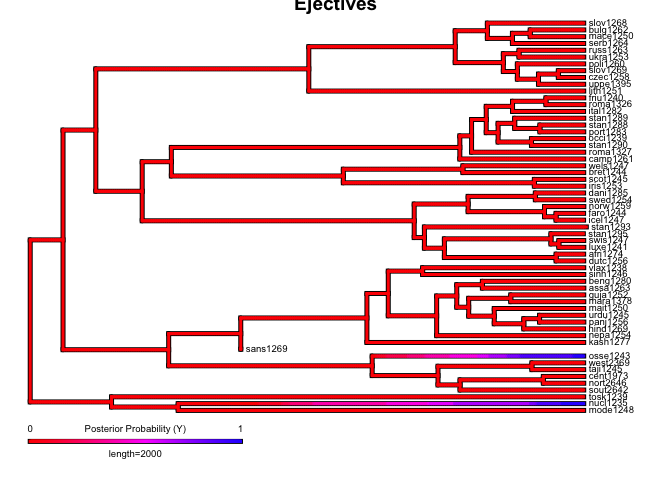
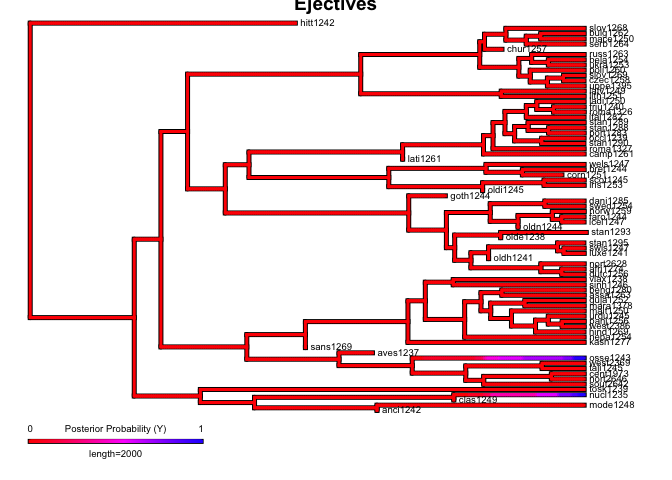
add analysis with haralds additional data

Changed region(s): [[0.0312, 0.0312, 0.9375, 0.9688]]

diff --git a/phylogenetic_study/phylogenetic_study_plots-harald.md b/phylogenetic_study/phylogenetic_study_plots-harald.md
@@ -57,7 +57,7 @@ library(phytools)
 library(phylotools)
 source('lib/functions.R')
 
-load("trees/traits.Rdata")
+load("../Harald/traits-harald.Rdata")
 ```
 
 Plot function.
@@ -95,14 +95,14 @@ The phylogeny comes from:
 Here are the traits plotted on the pruned phylogeny.
 
 ``` r
-load('trees/ie-c-trees.Rdata')
+load('trees/harald-ie-c-trees.Rdata')
 traits.print <- pr_sum_tree$data %>% select(-taxa)
 p <- reverse.time(ggtree(pr_sum_tree$tree, ladderize=T, right=T)) +
   geom_tiplab(align=T, linesize = .1, size = 1.5) 
 plot.tree(p, traits.print)
 ```
 
-![](phylogenetic_study_plots_files/figure-gfm/unnamed-chunk-3-1.png)<!-- -->
+![](phylogenetic_study_plots-Harald_files/figure-gfm/unnamed-chunk-3-1.png)<!-- -->
 
 With this data, the IE pruned tree has this many data points:
 
@@ -110,7 +110,7 @@ With this data, the IE pruned tree has this many data points:
 nrow(pr_sum_tree$data)
 ```
 
-    ## [1] 58
+    ## [1] 75
 
 Here are the stochastic character maps.
 
@@ -130,13 +130,13 @@ treemaps <- make.simmap(pr_sum_tree$tree, data, model="ARD", nsim=10, Q="empiric
     ## Using pi estimated from the stationary distribution of Q assuming a flat prior.
     ## pi =
     ##        N        Y 
-    ## 0.939401 0.060599 
+    ## 0.959913 0.040087 
     ## 
     ## make.simmap is sampling character histories conditioned on the transition matrix
     ## 
     ## Q =
     ##               N            Y
-    ## N -2.431031e-05 2.431031e-05
+    ## N -2.174259e-05 2.174259e-05
     ## Y  0.000000e+00 0.000000e+00
     ## (estimated using likelihood);
     ## and (mean) root node prior probabilities
@@ -161,7 +161,7 @@ p <- plot(map, outline=T, lwd=c(3,3),
 title(main="Ejectives")
 ```
 
-![](phylogenetic_study_plots_files/figure-gfm/unnamed-chunk-5-1.png)<!-- -->
+![](phylogenetic_study_plots-Harald_files/figure-gfm/unnamed-chunk-5-1.png)<!-- -->
 
 ``` r
 p
@@ -185,19 +185,19 @@ treemaps <- make.simmap(pr_sum_tree$tree, data, model="ARD", nsim=10, Q="empiric
     ## Using pi estimated from the stationary distribution of Q assuming a flat prior.
     ## pi =
     ##        N        Y 
-    ## 0.775862 0.224138 
+    ## 0.840553 0.159447 
     ## 
     ## make.simmap is sampling character histories conditioned on the transition matrix
     ## 
     ## Q =
-    ##             N           Y
-    ## N -0.03393642  0.03393642
-    ## Y  0.11747149 -0.11747149
+    ##               N             Y
+    ## N -0.0009776741  0.0009776741
+    ## Y  0.0051540119 -0.0051540119
     ## (estimated using likelihood);
     ## and (mean) root node prior probabilities
     ## pi =
-    ##        N        Y 
-    ## 0.775861 0.224139
+    ##         N         Y 
+    ## 0.8405538 0.1594462
 
     ## Done.
 
@@ -216,7 +216,7 @@ p <- plot(map, outline=T, lwd=c(3,3),
 title(main="Uvulars")
 ```
 
-![](phylogenetic_study_plots_files/figure-gfm/unnamed-chunk-6-1.png)<!-- -->
+![](phylogenetic_study_plots-Harald_files/figure-gfm/unnamed-chunk-6-1.png)<!-- -->
 
 ``` r
 p
@@ -235,14 +235,14 @@ Phylogeny comes from:
 Here are the traits plotted on the pruned phylogeny.
 
 ``` r
-load('trees/sinotibetan-z-trees.Rdata')
+load('trees/harald-sinotibetan-z-trees.Rdata')
 traits.print <- pr_sum_tree$data %>% select(-taxa)
 p <- reverse.time(ggtree(pr_sum_tree$tree, ladderize=T, right=T)) +
   geom_tiplab(align=T, linesize = .1, size = 1.5) 
 plot.tree(p, traits.print)
 ```
 
-![](phylogenetic_study_plots_files/figure-gfm/unnamed-chunk-7-1.png)<!-- -->
+![](phylogenetic_study_plots-Harald_files/figure-gfm/unnamed-chunk-7-1.png)<!-- -->
 
 With this data, the ST pruned tree has this many data points:
 
@@ -250,7 +250,7 @@ With this data, the ST pruned tree has this many data points:
 nrow(pr_sum_tree$data)
 ```
 
-    ## [1] 39
+    ## [1] 72
 
 ``` r
 data <- pr_sum_tree$tree[["tip.label"]]
@@ -266,19 +266,19 @@ treemaps <- make.simmap(pr_sum_tree$tree, data, model="ARD", nsim=10, Q="empiric
     ## Using pi estimated from the stationary distribution of Q assuming a flat prior.
     ## pi =
     ##        N        Y 
-    ## 0.974359 0.025641 
+    ## 0.986109 0.013891 
     ## 
     ## make.simmap is sampling character histories conditioned on the transition matrix
     ## 
     ## Q =
     ##               N             Y
-    ## N -0.0002283211  0.0002283211
-    ## Y  0.0086761129 -0.0086761129
+    ## N -8.166243e-05  8.166243e-05
+    ## Y  5.797295e-03 -5.797295e-03
     ## (estimated using likelihood);
     ## and (mean) root node prior probabilities
     ## pi =
     ##          N          Y 
-    ## 0.97435872 0.02564128
+    ## 0.98610937 0.01389063
 
     ## Done.
 
@@ -297,7 +297,7 @@ p <- plot(map, outline=T, lwd=c(3,3),
 title(main="Ejectives")
 ```
 
-![](phylogenetic_study_plots_files/figure-gfm/unnamed-chunk-9-1.png)<!-- -->
+![](phylogenetic_study_plots-Harald_files/figure-gfm/unnamed-chunk-9-1.png)<!-- -->
 
 ``` r
 p
@@ -321,19 +321,19 @@ treemaps <- make.simmap(pr_sum_tree$tree, data, model="ARD", nsim=10, Q="empiric
     ## Using pi estimated from the stationary distribution of Q assuming a flat prior.
     ## pi =
     ##        N        Y 
-    ## 0.820186 0.179814 
+    ## 0.831917 0.168083 
     ## 
     ## make.simmap is sampling character histories conditioned on the transition matrix
     ## 
     ## Q =
     ##               N             Y
-    ## N -6.600788e-05  6.600788e-05
-    ## Y  2.318698e-04 -2.318698e-04
+    ## N -3.795521e-05  3.795521e-05
+    ## Y  1.803341e-04 -1.803341e-04
     ## (estimated using likelihood);
     ## and (mean) root node prior probabilities
     ## pi =
     ##         N         Y 
-    ## 0.7784061 0.2215939
+    ## 0.8261243 0.1738757
 
     ## Done.
 
@@ -352,7 +352,7 @@ p <- plot(map, outline=T, lwd=c(3,3),
 title(main="Uvulars")
 ```
 
-![](phylogenetic_study_plots_files/figure-gfm/unnamed-chunk-10-1.png)<!-- -->
+![](phylogenetic_study_plots-Harald_files/figure-gfm/unnamed-chunk-10-1.png)<!-- -->
 
 ``` r
 p

diff --git a/phylogenetic_study/phylogenetic_study_prune.md b/phylogenetic_study/phylogenetic_study_prune.md
@@ -1,0 +1,89 @@
+Phylogenetic study of ejectives and uvulars (presense / absence) in IE
+and ST
+================
+Steven Moran
+29 June, 2020
+
+# Prune the phylogenies
+
+Prune the language phylogeneies with the daughter languages that we have
+in the traits data. This only needs to be run once.
+
+## Indo-European
+
+``` r
+# Tree paths
+tree <- 'trees/indoeuropean-C-merged.nex'
+forest <- 'trees/indoeuropean-C-20k.nex'
+
+# Prune the trees
+pr_sum_tree <- PruneSummaryTree(tree, traits$taxa, 'Glottocode')
+pr_trees <- PruneForest(forest, traits$taxa, 'Glottocode')
+
+# Check that the summary tree tip labels are the same as (the first) posterior tree tip labels
+expect_true(setequal(pr_sum_tree$tip.label, pr_trees$STATE_0$tip.label))
+
+# Prune the traits data to match the tree tips for analysis
+data <- PruneTraits(traits, pr_sum_tree$tip.label)
+
+# Combine them into a list of R data objects for analysis with the BT3 wrapper
+pr_sum_tree <- list(data=data, tree=pr_sum_tree)
+pr_trees <- list(data=data, tree=pr_trees)
+# save(pr_sum_tree, pr_trees, file='trees/ie-c-trees.Rdata')
+save(pr_sum_tree, pr_trees, file='trees/harald-ie-c-trees.Rdata')
+```
+
+## Sinotibetan (Zhang)
+
+``` r
+# Tree paths
+tree <- 'trees/sinotibetan-zhang-merged.nex'
+forest <- 'trees/sinotibetan-zhang-10k.nex'
+
+# Prune the trees
+pr_sum_tree <- PruneSummaryTree(tree, traits$taxa, 'Glottocode')
+pr_trees <- PruneForest(forest, traits$taxa, 'Glottocode')
+
+# Check that the summary tree tip labels are the same as (the first) posterior tree tip labels
+expect_true(setequal(pr_sum_tree$tip.label, pr_trees$STATE_0$tip.label))
+
+# Prune the traits data to match the tree tips for analysis
+data <- PruneTraits(traits, pr_sum_tree$tip.label)
+
+# Combine them into a list of R data objects for analysis with the BT3 wrapper
+pr_sum_tree <- list(data=data, tree=pr_sum_tree)
+pr_trees <- list(data=data, tree=pr_trees)
+# save(pr_sum_tree, pr_trees, file='trees/sinotibetan-z-trees.Rdata')
+save(pr_sum_tree, pr_trees, file='trees/harald-sinotibetan-z-trees.Rdata')
+```
+
+## Utoaztecan
+
+TODO: something about this tree doesn’t work (not dated?).
+
+``` r
+# Tree paths
+# tree <- 'trees/utoaztecan-merged.nex'
+# forest <- 'trees/utoaztecan-800.nex'
+
+# Prune the trees
+# pr_sum_tree <- PruneSummaryTree(tree, traits$taxa, 'Glottocode')
+# pr_trees <- PruneForest(forest, traits$taxa, 'Glottocode')
+
+# Check that the summary tree tip labels are the same as (the first) posterior tree tip labels
+# expect_true(setequal(pr_sum_tree$tip.label, pr_trees$STATE_0$tip.label))
+
+# Prune the traits data to match the tree tips for analysis
+# data <- PruneTraits(traits, pr_sum_tree$tip.label)
+
+# Combine them into a list of R data objects for analysis with the BT3 wrapper
+# pr_sum_tree <- list(data=data, tree=pr_sum_tree)
+# pr_trees <- list(data=data, tree=pr_trees)
+# save(pr_sum_tree, pr_trees, file=paste0(.PathToPrunedTrees, 'sinotibetan-z-trees.Rdata'))
+```
+
+Clean up.
+
+``` r
+rm(pr_sum_tree, pr_trees, tree, forest)
+```
